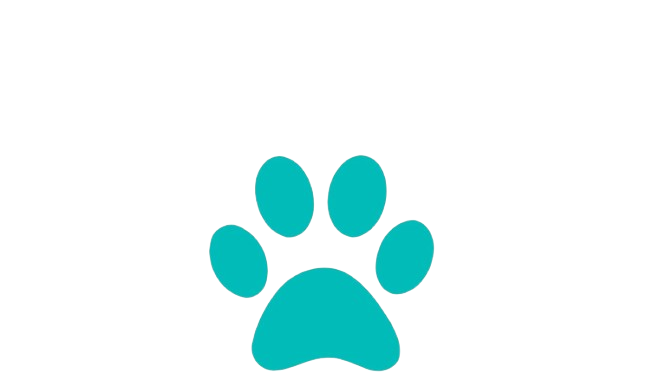
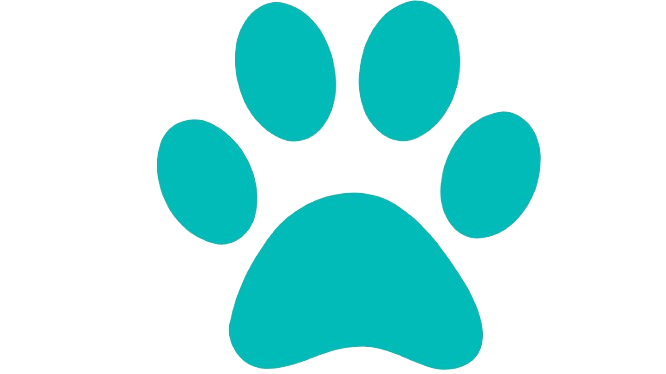
Adicionando mais imagens e estilizando

Changed region(s): [[0.2102, 0.2941, 0.8108, 1.0], [0.3303, 0.0, 0.5105, 0.3824], [0.5405, 0.0, 0.6907, 0.3824]]

diff --git a/src/App.jsx b/src/App.jsx
@@ -1,27 +1,35 @@
 import Userlogin from "./components/Loginusuario";
 import PasswordLogin from "./components/PasswordLogin";
 import pata1 from "./assets/images/pata.png";
+import pata2 from "./assets/images/pata2.png";
+import ossos from "./assets/images/ossos.png";
 function App() {
   return (
     <div className="bg-gradient-to-l from-yellow-400 via-yellow-500 to-orange-400 min-h-screen  w-screen flex flex-col overflow-hidden">
       <header className="py-6 text-center">
         <h1
-          className="text-teal-500 text-8xl font-bold text-center py-3 "
+          className="text-teal-500 text-8xl font-bold text-center py-3  "
           style={{ textShadow: "4px 4px 4px rgba(0, 0, 0, 1)" }}
         >
           <a href="">MEU PET</a>
         </h1>
       </header>
-      <main className="flex flex-1 items-center justify-center relative">
-        <div className="w-full max-w-md px-4 relative z-10">
+      <main className=" py-24 flex items-center justify-center relative">
+        <div className="w-full max-w-md px-4 relative ">
+          <Userlogin />
+          <PasswordLogin />
           <img
             src={pata1}
             alt="pata"
-            className=" absolute w-109px opacity-95 z-[-1] pointer-events-none"
+            className=" absolute opacity-95 py-32 right-3 scale-150 "
           />
-          <Userlogin />
-          <PasswordLogin />
         </div>
+        <img src={pata2} alt="vaárias pegadas" className="absolute w-11/12 " />
+        <img
+          src={ossos}
+          alt="vaárias pegadas"
+          className="absolute w-11/12 flex justify-center "
+        />
       </main>
     </div>
   );
